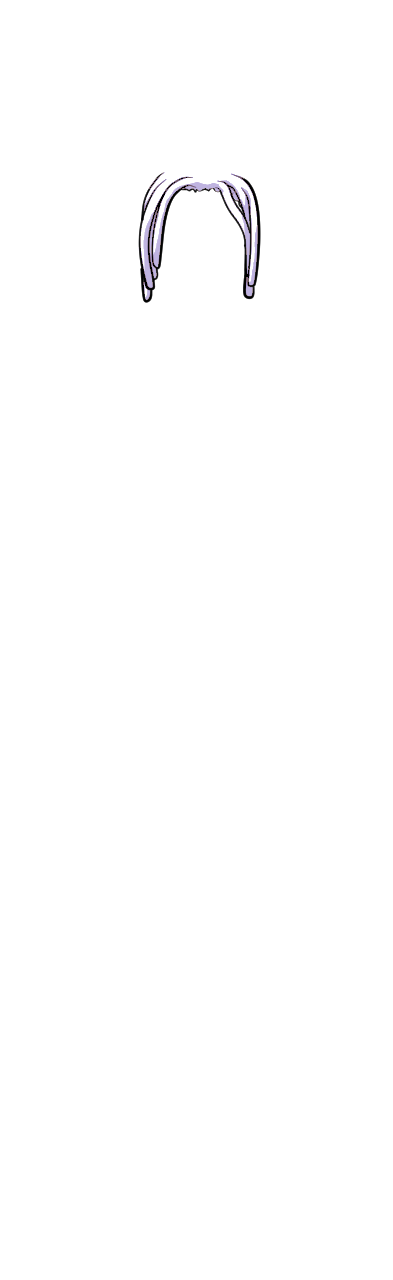
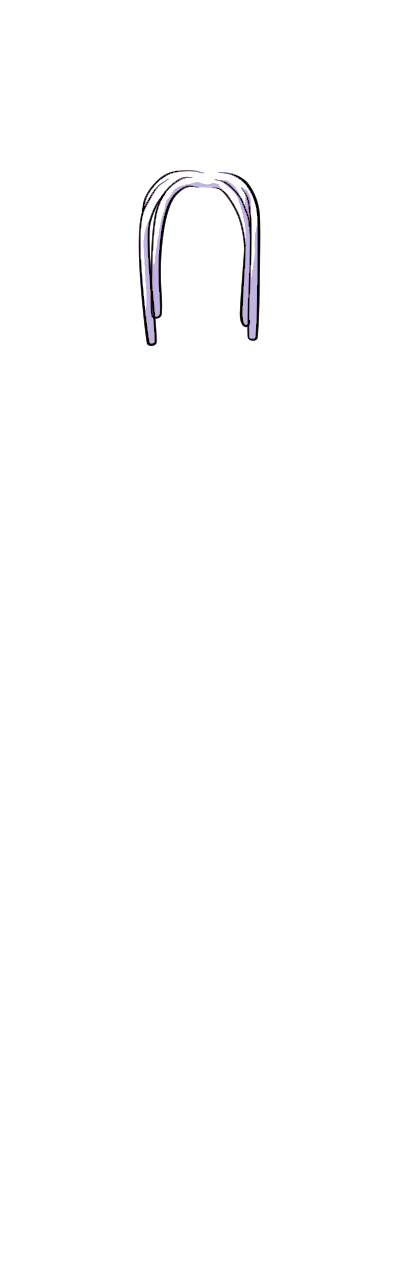
better locs

Changed region(s): [[0.3359, 0.125, 0.5191, 0.2812], [0.5496, 0.125, 0.6718, 0.2812]]

diff --git a/code/generated.js b/code/generated.js
@@ -81,11 +81,11 @@ const eyebrows_list_d = [["flat","flat sad","flat grumpy","flat angry","sad","sa
 const eyes_list_d = [["neutral","side","crescents","flat","narrowed","happy","wide","shock","angry","angry side","sleepy","wink",],["neutral","side","crescents","flat","narrowed","happy","wide","shock","angry","angry side","sleepy","wink",],[],];
 const facial_hair_list_d = [["none",],["none","beard","moustache","goatee","soul patch","fluffy goatee","stubble",],[],];
 const nose_front_list_d = [["button","round","medium","broad","pointed","hooked",],["button","round","medium","broad","pointed","hooked",],[],];
-const hair_front_list_d = [["none","balding","neat side","swept back","long locs","curly flowing","curly long","straight flowing","locs bun",],["none","balding","neat side","swept back","long locs","curly flowing","curly long","straight flowing","locs bun",],[],];
+const hair_front_list_d = [["none","balding","neat side","swept back","long locs","curly flowing","curly long","straight flowing","locs bun","locs bob","short locs",],["none","balding","neat side","swept back","long locs","curly flowing","curly long","straight flowing","locs bun","locs bob","short locs",],[],];
 const eyewear_list_d = [["none","oblong glasses","square glasses","round glasses","spectacles","eye patch","sunglasses","coloured glasses",],["none","oblong glasses","square glasses","round glasses","spectacles","eye patch","sunglasses","coloured glasses","monocle",],["monocle","spectacles","eye patch",],];
 const hat_middle_list_d = [["none","cat ears","curled horns","pointed horns","scarf","beads","head band","side bow","bow","tiara",],["none","cat ears","curled horns","pointed horns","sweat band",],["beads","cat ears","curled horns","pointed horns","tiara",],];
 const sidelocks_repeat_list_d = [["none","short straight","short hime","short wavy","short locs","short hime","medium hime","medium locs","medium wavy","medium straight","medium straight tendril","long straight","long wavy","long curly","long locs",],["none","short straight","short hime","short wavy","short locs","tiny curls","tiny straight","tiny locs","medium shaggy",],[],];
-const fringe_list_d = [["none","straight short","curly short","spiky","straight centre","straight swept","emo","long locs","wavy centre","curly wisps","curly long",],["none","straight short","curly short","spiky","straight centre","straight swept","emo","long locs","side flop","princely","wavy side",],[],];
+const fringe_list_d = [["none","straight short","curly short","spiky","straight centre","straight swept","emo","short locs","medium locs","long locs","wavy centre","curly wisps","curly long",],["none","straight short","curly short","spiky","straight centre","straight swept","emo","short locs","medium locs","long locs","side flop","princely","wavy side",],[],];
 const hat_front_list_d = [["none","witch hat","broad hat","beanie","hood","crown","bonnet","hijab","flower","flower crown","bandanna",],["none","witch hat","broad hat","beanie","hood","crown","top hat","cap","bowler","fedora","turban",],["top hat","witch hat","bowler","flower crown","crown",],];
 const hat_front_dec_list_d = [["bowler","broad hat","fedora","witch hat","top hat","crown",],["bowler","broad hat","fedora","witch hat","top hat","crown",],[],];
 const wheelchair_list_d = [["none","manual","old fashioned",],["none","manual","old fashioned",],["old fashioned",],];

diff --git a/code/setup.js b/code/setup.js
@@ -323,13 +323,12 @@ function print_defining_objects(){
 
 
 const hairstyle_defining_list = [ //name, hair_front, hair_middle, hair_back
-//["curly long","straight long",],
     ["none","none","none","none"], ["balding","balding","none","balding"],["shaved","none","shaved","none"], ["buzzcut","none","short","buzzcut"],
-    ["straight short","none","long","straight short"],["curly short","none","short","curly short"],["wavy short","none","long","wavy short"],["side part","neat side","long shadowed","straight side"],
+    ["straight short","none","long","straight short"],["curly short","none","short","curly short"],["wavy short","none","long","wavy short"],["side part","neat side","long shadowed","straight side"],["locs short","short locs","long","none"],
     ["swept back","swept back","long shadowed","swept back"],["shaggy short","none","long","shaggy short"],["small tight curls","none","short","tight curls short"],
     ["tight curls","none","short","tight curls medium"],["shaggy medium","none","long","shaggy medium"], ["wavy bob","none","long","wavy bob"],["curly bob","none","long","curly bob"],["straight bob","none","long","straight bob"],
     ["straight high pony", "none", "long", "straight high pony"],["straight low pony", "none", "long", "straight low pony"],["curly pony", "none", "long", "curly pony"],["twin braids", "none", "long", "twin braids"],
-    ["locs half up", "locs bun", "long", "locs bob"],
+    ["locs half up", "locs bun", "long", "locs bob"],["locs bob", "locs bob", "long", "locs bob"],
     ["curly flowing", "curly flowing", "long", "curly flowing"],["straight flowing", "straight flowing", "long", "straight flowing"],
     ["straight long", "none", "long", "straight long"],["wavy long", "none", "long", "wavy long"],["curly long", "none", "long", "curly long"],["locs long", "long locs", "long", "long locs"],
     ["curly bun","none","long","curly bun"],["locs bun","locs bun","long","locs bun"],["wavy bun","none","long","wavy bun"],["straight bun","none","long","bun"],

diff --git a/code/generate_images.py b/code/generate_images.py
@@ -290,7 +290,7 @@ shoes_list_w = []
 shoes_list_d = [shoes_list_f, shoes_list_m, shoes_list_w]
 
 
-hair_front_list = ["none", "balding", "neat side", "swept back", "long locs","curly flowing","curly long","straight flowing","locs bun", ]
+hair_front_list = ["none", "balding", "neat side", "swept back", "long locs","curly flowing","curly long","straight flowing","locs bun", "locs bob","short locs"]
 hair_front_list_d = default_list(hair_front_list)
 
 hair_back_list = ["none","balding", "buzzcut","straight short","curly short","wavy short", "straight side", "swept back", "shaggy short", "tight curls short","tight curls medium", "shaggy medium", "curly bob","wavy bob", "straight bob","locs bob", "half up medium wavy","straight high pony","straight low pony", "curly pony", "bun","curly bun","wavy bun","locs bun","twin braids","straight long","wavy long","curly long", "long locs",  "curly flowing", "straight flowing","straight up","curly up","locs up"]
@@ -299,7 +299,7 @@ hair_back_list_d = default_list(hair_back_list)
 hair_middle_list = ["none", "shaved", "balding","short","long","long shadowed"]
 hair_middle_list_d = default_list(hair_middle_list)
 
-fringe_list_u = ["none", "straight short", "curly short","spiky","straight centre","straight swept","emo","long locs" ]
+fringe_list_u = ["none", "straight short", "curly short","spiky","straight centre","straight swept","emo","short locs","medium locs","long locs", ]
 fringe_list_m = fringe_list_u+["side flop", "princely","wavy side"]
 fringe_list_f = fringe_list_u+["wavy centre","curly wisps","curly long"]#"straight long","wavy long"
 fringe_list_w =[]
